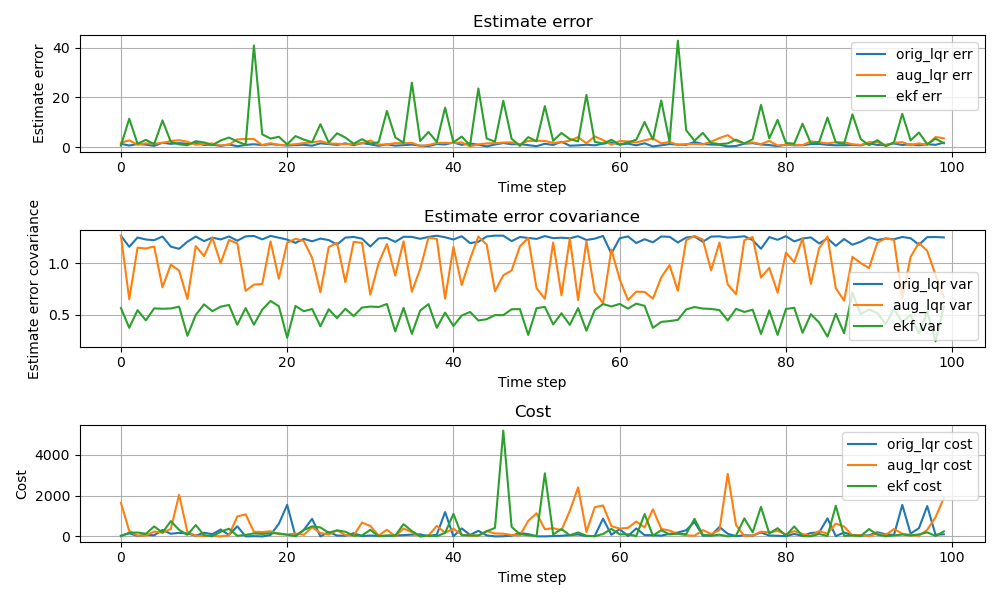
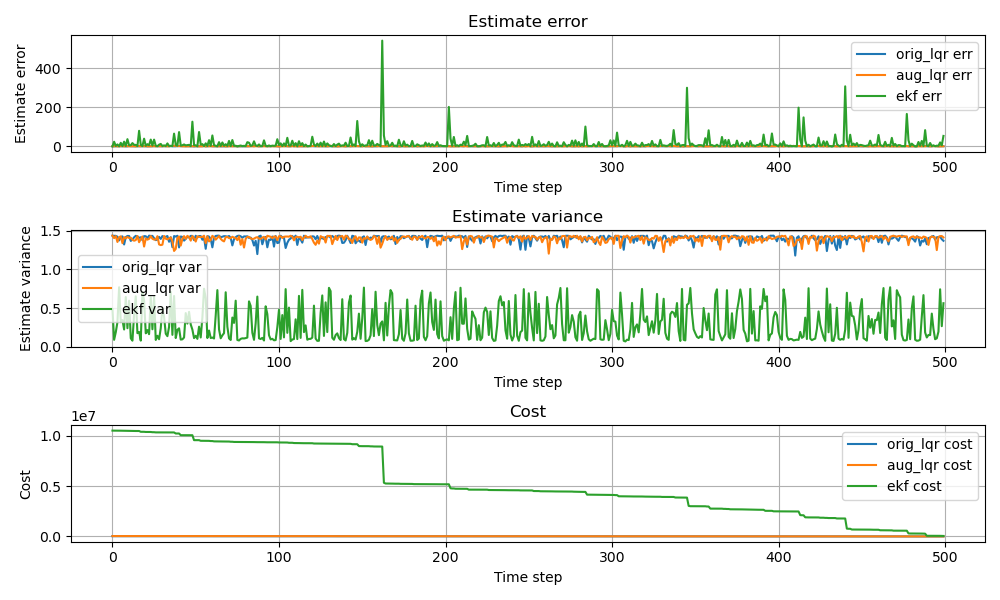
set lqr lqe with same horizon and update synchronously

diff --git a/LQG_QKF/LQG_QKF.py b/LQG_QKF/LQG_QKF.py
@@ -57,8 +57,21 @@ def finite_horizon_lqr(A, B, Q, R, N=100, Qf=None):
         P = Q + A.T @ P @ A - A.T @ P @ B @ np.linalg.pinv(R + B.T @ P @ B) @ B.T @ P @ A
     return P
 
+def update_lqr_one_step(A, B, Q, R):
+    # Compute the LQR gain
+    K = -np.linalg.pinv(R + B.T @ P @ B) @ B.T @ P @ A
+    P = A.T @ P @ A - A.T @ P @ B @ K + Q + K.T @ R @ K  # update the cost-to-go matrix
+    
+    return K, P
+
+def generate_goal_state(goal_state_E, state_S_size): 
+        goal_state_S = np.random.randn(state_S_size, 1)
+        goal_state = np.vstack((goal_state_E, goal_state_S))
+        return goal_state
+
 class LQG:
-    def __init__(self, n1, n2, p, W, A_E, A_S, B_S, C, M, V, Q, R, H = 50, filter_type: Literal['qkf', 'ekf', 'kf'] = 'qkf',
+    def __init__(self, n1, n2, p, W, A_E, A_S, B_S, C, M, V, Q, R, goal_state, H = 50, 
+                 filter_type: Literal['qkf', 'ekf', 'kf'] = 'qkf',
                  lqr_type: Literal['orig', 'aug'] = 'orig'):
         
         self.filter_type = filter_type
@@ -96,21 +109,16 @@ class LQG:
         self.x_hat = np.zeros((self.n, 1)) # estimated state vector
         self.z_hat = np.zeros((self.n + self.n**2, 1)) # estimated augmented state vector
         self.x_goal = np.zeros((self.n, 1)) # goal state vector
+        
         # lqr
+        self.x_goal = goal_state
         self.Q = Q.astype(np.float64)
         self.R = R.astype(np.float64)
         
         # lqe
         self.P_est = np.eye(self.n) * small_value  # estimation error covariance matrix 
     
-    def update_goal_state(self): 
-        goal_state_E = self.F.get_x_E() 
-        goal_state_S = np.random.randn(self.n2, 1)
-        goal_state = np.vstack((goal_state_E, goal_state_S))
-        self.x_goal = goal_state
-        return 
-    
-    def update_lqr_newton(self, goal_state, infinite_horizon = False):
+    def update_lqr_newton(self, goal_state):
         z_0 = (np.concatenate([goal_state.T, Vec(goal_state @ goal_state.T).T], axis=1)).T
         z_1 = self.Z_est
         z = z_1 - z_0
@@ -119,13 +127,8 @@ class LQG:
         A_tilde = self.F.get_A_tilde() # shape (n+n^2, n+n^2)
         B_tilde = self.F.get_B_tilde() # shape (n+n^2, p)
         
-        if infinite_horizon: # infinite horizon LQR -> DOES NOT WORK FOR THIS CASE!
-            check_stability(A_tilde, B_tilde, self.Q, self.R)
-            from scipy.linalg import solve_discrete_are
-            P = solve_discrete_are(A_tilde, B_tilde, self.Q, self.R)   # P is the fixed‑point
-        else: # finite horizon LQR
-            P = finite_horizon_lqr(A_tilde, B_tilde, self.Q, self.R, N=self.H, Qf=None)
-        
+        K, P = update_lqr_one_step(A_tilde, B_tilde, self.R, self.Q)
+        self.Pz_est = P # update cost-to-go matrix
         n = self.n # state size
         P11 = P[:n,     :n]
         P12 = P[:n,     n:]
@@ -194,7 +197,7 @@ class LQG:
             alpha *= 0.5                       # shrink step
         return u_nom, x_nom, 0.0               # no progress
     
-    def update_ilqr(self, goal_state, alpha = 1):
+    def update_ilqr(self, goal_state, alpha = 1, verbose=False):
         x_nominal = self.x_hat
         u_nominal = np.zeros((self.p, 1)) # nominal control input vector
          
@@ -248,7 +251,8 @@ class LQG:
             u_new, x_new, alpha = self.line_search(u_nominal, d, K, x_nominal, x_cur, goal_state, A, B)
             # check convergence
             diff = np.linalg.norm(u_new - u_nominal)
-            print(f"iter {iter:3d} | step α={alpha:.3f} | Δu={diff:.2e}")
+            if verbose:
+                print(f"iter {iter:3d} | step α={alpha:.3f} | Δu={diff:.2e}")
             
             if diff < epsilon:
                 break
@@ -259,10 +263,10 @@ class LQG:
         return
     
     
-    def update_lqr_orig(self, goal_state):
+    def update_lqr_orig(self, goal_state, ):
         # LQR update only with original state, no augmented state
         # P_lqr = scipy.linalg.solve_discrete_are(self.A, self.B, self.Q[:self.n, :self.n], self.R)  # P is the fixed-point
-        P_lqr = finite_horizon_lqr(self.A, self.B, self.Q[:self.n, :self.n], self.R, N=100, Qf=None)
+        P_lqr = finite_horizon_lqr(self.A, self.B, self.Q[:self.n, :self.n], self.R, N=1, Qf=None)
         feedback_gain = -np.linalg.pinv(self.R + self.B.T @ P_lqr @ self.B) @ self.B.T @ P_lqr @ self.A
         u_new = feedback_gain @ (goal_state - self.x_hat)  # control input
         self.F.set_u(u_new)
@@ -387,7 +391,6 @@ class LQG:
         cost_list = []
         for _ in tqdm.tqdm(range(1, self.H + 1, 1)):
             self.update_lqe()
-            self.update_goal_state()
             self.update_lqr()
             self.forward_state()
             
@@ -403,20 +406,31 @@ class LQG:
             var_list.append(var)
             
             # record cost   
-            x_goal = self.x_goal
-            z_goal = np.concatenate([
-                x_goal.reshape(-1, 1),
-                Vec(x_goal @ x_goal.T).reshape(-1, 1)
-            ], axis=0)
-            z_est = self.Z_est
-            u = self.F.get_u()
-            dz = z_est - z_goal
-            cost = dz.T @ self.Q @ dz + u.T @ self.R @ u
-            cost_list.append(cost.item())
+            if self.filter_type == 'qkf':
+                x_goal = self.x_goal
+                z_goal = np.concatenate([x_goal.reshape(-1, 1),Vec(x_goal @ x_goal.T).reshape(-1, 1)], axis=0)
+                z_est = self.Z_est
+                u = self.F.get_u()
+                dz = z_est - z_goal
+                cost = dz.T @ self.Q @ dz + u.T @ self.R @ u
+                cost_list.append(cost.item())
+            else:
+                x_goal = self.x_goal
+                x_est = self.x_hat
+                u = self.F.get_u()
+                dx = x_est - x_goal
+                cost = dx.T @ self.Q[:self.n, :self.n] @ dx + u.T @ self.R @ u
+                cost_list.append(cost.item())
             
-        return rmse_list, var_list, cost_list
+        cost_to_go_list = []
+        for i in range(len(cost_list)):
+            cost_to_go = np.sum(cost_list[i:])
+            cost_to_go_list.append(cost_to_go)  
+              
+        return rmse_list, var_list, cost_to_go_list
 
-def main():
+def main(H=1000):
+    
     n1 = 2
     n2 = 2
     n = n1 + n2 # state size
@@ -442,6 +456,7 @@ def main():
     # Q = generate_random_symmetric_matrix(n, scale=1.0)
     R = generate_random_symmetric_matrix(p, scale=1.0)
     
+    goal_state = generate_goal_state(np.zeros((n1, 1)), n2) # goal state vector
     # lqg_kf_sys = LQG(n, p, W, A, B, C, M, V, Q, R, H=1000, filter_type='kf')
     # err_list_kf = lqg_kf_sys.run_sim()
     # plt.plot(err_list_kf, label=f'kf measure error')
@@ -450,26 +465,26 @@ def main():
     ax[0].set_title('Estimate error')
     ax[0].set_xlabel('Time step')
     ax[0].set_ylabel('Estimate error')
-    ax[1].set_title('Estimate error covariance')
+    ax[1].set_title('Estimate variance')
     ax[1].set_xlabel('Time step')   
-    ax[1].set_ylabel('Estimate error covariance')
+    ax[1].set_ylabel('Estimate variance')
     ax[2].set_title('Cost')
     ax[2].set_xlabel('Time step')
     ax[2].set_ylabel('Cost')
 
-    lqg_qkf_orig = LQG(n1, n2, p, W, A_E, A_S, B_S, C, M, V, Q, R, H=100, filter_type='qkf', lqr_type='orig')
+    lqg_qkf_orig = LQG(n1, n2, p, W, A_E, A_S, B_S, C, M, V, Q, R, H=H, filter_type='qkf', lqr_type='orig', goal_state=goal_state)
     err_list_orig, var_list_orig, cost_list_orig = lqg_qkf_orig.run_sim()
     ax[0].plot(err_list_orig, label=f'orig_lqr err')
     ax[1].plot(var_list_orig, label=f'orig_lqr var')
     ax[2].plot(cost_list_orig, label=f'orig_lqr cost')
     
-    lqg_qkf_aug = LQG(n1, n2, p, W, A_E, A_S, B_S, C, M, V, Q, R, H=100, filter_type='qkf', lqr_type='aug')
+    lqg_qkf_aug = LQG(n1, n2, p, W, A_E, A_S, B_S, C, M, V, Q, R, H=H, filter_type='qkf', lqr_type='aug', goal_state=goal_state)
     err_list_aug, var_list_aug, cost_list_aug = lqg_qkf_aug.run_sim()
     ax[0].plot(err_list_aug, label=f'aug_lqr err')
     ax[1].plot(var_list_aug, label=f'aug_lqr var')
     ax[2].plot(cost_list_aug, label=f'aug_lqr cost')
     
-    lqg_ekf = LQG(n1, n2, p, W, A_E, A_S, B_S, C, M, V, Q, R, H=100, filter_type='ekf', lqr_type='orig')
+    lqg_ekf = LQG(n1, n2, p, W, A_E, A_S, B_S, C, M, V, Q, R, H=H, filter_type='ekf', lqr_type='orig', goal_state=goal_state)
     err_list_ekf, var_list_ekf, cost_list_ekf = lqg_ekf.run_sim()
     ax[0].plot(err_list_ekf, label=f'ekf err')
     ax[1].plot(var_list_ekf, label=f'ekf var') 
@@ -481,6 +496,8 @@ def main():
     ax[1].grid()
     ax[2].legend()
     ax[2].grid()
+    # ax[2].set_xscale('log')
+    # ax[2].set_yscale('log')
     # print("Estimate error list: ", err_list)
     plt.tight_layout()
     plt.savefig('LQG_QKF/perf_comparison.png')
@@ -488,7 +505,7 @@ def main():
     return
 
 if __name__ == "__main__":
-    main()
+    main(500)
         
 
 
